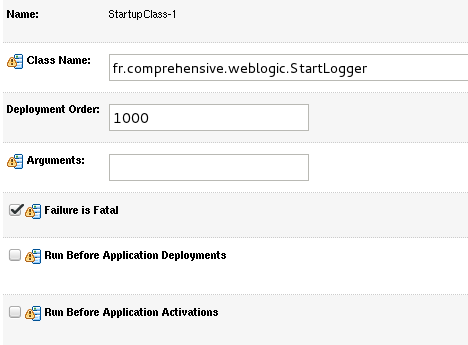
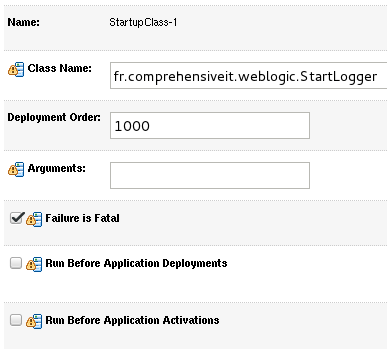
Add sections to startup-shutdown chapter

diff --git a/apps/StartLoggerProject/src/fr/comprehensiveit/weblogic/DatabaseLogger.java b/apps/StartLoggerProject/src/fr/comprehensiveit/weblogic/DatabaseLogger.java
@@ -2,6 +2,7 @@ package fr.comprehensiveit.weblogic;
 
 import java.sql.PreparedStatement;
 import java.sql.ResultSet;
+import java.sql.SQLException;
 import java.util.Hashtable;
 
 import javax.naming.Context;
@@ -14,24 +15,31 @@ public class DatabaseLogger {
 		OracleConnection conn=null;
 	    javax.sql.DataSource ds=null;
 	    Hashtable env = new Hashtable();
+	    //Define weblogic context factory and URL
 	    env.put( Context.INITIAL_CONTEXT_FACTORY, "weblogic.jndi.WLInitialContextFactory" );
 	    env.put(Context.PROVIDER_URL, "t3://192.168.0.250:23001");
 	    PreparedStatement psmt;
 	    try {
 	    	Context context=new InitialContext( env );
-		      //you will need to have create a Data Source with JNDI name testDS
-		      ds=(javax.sql.DataSource) context.lookup ("testDS");
-		      conn=(OracleConnection) ds.getConnection();
-		      String sql = "insert into t_start2 (d_start) values(Current_TimeStamp)";
-		      psmt = conn.prepareStatement(sql);
-		      ResultSet rs = psmt.executeQuery();
-		      conn.commit();
-		      //psmt.close();
-		      conn.close();
+	    	//Try to get datasource testDS from WebLogic
+	    	ds=(javax.sql.DataSource) context.lookup ("testDS");
+	    	//Get a connection from pool
+	    	conn=(OracleConnection) ds.getConnection();
+	    	String sql = "insert into t_start2 (d_start) values(Current_TimeStamp)";
+	    	psmt = conn.prepareStatement(sql);
+	    	//Execute query
+	    	psmt.executeQuery();
+	    	conn.commit();
+	    	conn.close();
 	    }catch(Exception ex){
-		      //handle the exception
-		      ex.printStackTrace();
-		     return 1; 
+	    	try {
+	    		conn.rollback();
+	    	}catch(Exception ex2) {
+	    		System.out.println("Can not rollback prepared statement. This might occur if connection failed before initialization.");
+	    	}
+	    	//handle the exception
+	    	ex.printStackTrace();
+	    	return 1; 
 		}
 		return 0;
 	}

diff --git a/apps/StartLoggerProject/src/fr/comprehensiveit/weblogic/StartLogger.java b/apps/StartLoggerProject/src/fr/comprehensiveit/weblogic/StartLogger.java
@@ -1,14 +1,10 @@
 package fr.comprehensiveit.weblogic;
 
-import app.StartSleep;
-
 public class StartLogger {
 	public static void main(String args[]) throws InterruptedException {
 		System.out.println("StartLogger");
 		DatabaseLogger dsc = new DatabaseLogger();
 		int myResult = dsc.writeStartTime();
-		StartSleep ss = new StartSleep();
-		int myResult2 = dsc.writeStartTime();
 		System.out.println("StartLogger result:"+myResult+"\n");
 	}
 }

diff --git a/docs/source/startup-shutdown.rst b/docs/source/startup-shutdown.rst
@@ -1,13 +1,7 @@
 Startup WebLogic
 ----------------
 
-Admin server
-~~~~~~~~~~~~~~~
-
-Managed server
-~~~~~~~~~~~~~~~
-
-Depending on your configuration, managed servers can take time to startup. 
+Depending on your configuration, servers can take time to startup. 
 WebLogic deploys its application after two phases.
 
 - Phase 1: The application has the "prepare" status. At this step WebLogic controls package integrity and ensure the application can be deployed. We can meet errors at this step if a package has been corrupted while transferring from the Admin server to managed servers.
@@ -29,10 +23,14 @@ On a WebLogic 12c platform we corrupted our WAR application in different ways. Y
 +-----------------------------------+-------------------+-----------------------+
 
 Startup and Shutdown Classes
-""""""""""""""""""""""""""""
-Startup classes and shutdown classes are loaded when the server bootup. Depending on the deployment order the class can be deployed before or after other deployments and services.
+~~~~~~~~~~~~~~~
+
+Startup classes and shutdown classes are loaded when the server bootup. Depending on the deployment order the class can be loaded before or after other deployments and services.
 
 StartLogger example
+""""""""""""""""""""""""""""
+
+Description
 ```````````````````
 
 In this example we developed a class named DatabaseLogger which writes the current date into t_start and a class named StartServlet which calss DatabaseLogger.
@@ -43,18 +41,21 @@ If we do not write this method main the following error will occur during startu
 
   java.lang.NoSuchMethodException: app.StartServlet does not define 'public static void main(String[])'
 
+Configuration
+```````````````````
+
 To configure a class into startup we first need to add the package to classloader.
 A quick and dirty solution is to add lines below to setDomainEnv.sh
 
 .. code-block:: shell
 
-  CLASSPATH="${CLASSPATH}:/opt/wls12210/user_projects/domains/DOMAIN-2/upload/StartLoggerProject.jar
-  export CLASSPATH
+  CLASSPATH="${CLASSPATH}:/opt/wls12210/user_projects/domains/DOMAIN-2/upload/StartLoggerProject.jar"
+  export $CLASSPATH
 
 Then you can add the class to start to Weblogic configuration with the following steps:
 
-- Environment / Startup and Shutdown Classes
-- Click New / select Startup Class
+- Click Environment and Startup and Shutdown Classes
+- Click New and select Startup Class
 - Add Startup name to display in WebLogic console and startup class name to boot
 - Select target and press finish
 
@@ -64,8 +65,95 @@ For our example we set the following configuration
 
 If startup class failed to load server will shutdown. This is not the default value but can be usefull to know at the begining your application is not able to initialize
 
-CacheRetriever example
+Source code
 ```````````````````
+StartLogger class contains a single main method which calls writeStartTime method from DataSourceClient
+
+.. code-block:: java
+  package fr.comprehensiveit.weblogic;
+
+  public class StartLogger {
+  	public static void main(String args[]) throws InterruptedException {
+  		System.out.println("StartLogger");
+  		DatabaseLogger dsc = new DatabaseLogger();
+  		int myResult = dsc.writeStartTime();
+  		System.out.println("StartLogger result:"+myResult+"\n");
+  	}
+  }
+
+DataSourceClient writes current date and time in t_start2 column. We let WebLogic manages database connection by using testDS datasource.
+
+.. code-block:: java
+  package fr.comprehensiveit.weblogic;
+
+  import java.sql.PreparedStatement;
+  import java.sql.ResultSet;
+  import java.sql.SQLException;
+  import java.util.Hashtable;
+
+  import javax.naming.Context;
+  import javax.naming.InitialContext;
+
+  import oracle.jdbc.OracleConnection;
+
+  public class DatabaseLogger {
+	public int writeStartTime() {
+		OracleConnection conn=null;
+	    javax.sql.DataSource ds=null;
+	    Hashtable env = new Hashtable();
+	    //Define weblogic context factory and URL
+	    env.put( Context.INITIAL_CONTEXT_FACTORY, "weblogic.jndi.WLInitialContextFactory" );
+	    env.put(Context.PROVIDER_URL, "t3://192.168.0.250:23001");
+	    PreparedStatement psmt;
+	    try {
+	    	Context context=new InitialContext( env );
+	    	//Try to get datasource testDS from WebLogic
+	    	ds=(javax.sql.DataSource) context.lookup ("testDS");
+	    	//Get a connection from pool
+	    	conn=(OracleConnection) ds.getConnection();
+	    	String sql = "insert into t_start2 (d_start) values(Current_TimeStamp)";
+	    	psmt = conn.prepareStatement(sql);
+	    	//Execute query
+	    	psmt.executeQuery();
+	    	conn.commit();
+	    	conn.close();
+	    }catch(Exception ex){
+	    	try {
+	    		conn.rollback();
+	    	}catch(Exception ex2) {
+  	    		System.out.println("Can not rollback prepared statement. This might occur if connection failed before initialization.");
+  	    	}
+  	    	//handle the exception
+  	    	ex.printStackTrace();
+  	    	return 1; 
+  		}
+		return 0;
+  	}
+  }
+
+Before starting WebLogic we can check that no entry exists into t_start2
+
+.. code-block:: sql
+  SQL> select * from webusr.t_start2;
+  no rows selected
+
+During WebLogic bootup we can notice that WebLogic invoked the main method
+
+.. code-block:: 
+  ####<27 Aug 2016, 3:43:38,430 PM CEST> <Info> <WebLogicServer> <devhyp001> <Server1-b> <[STANDBY] ExecuteThread: '4' for queue: 'weblogic.kernel.Default (self-tuning)'> <<WLS Kernel>> <> <bb25b59e-d272-454b-8ff8-6adca5db86fb-00000006> <1472305418430> <[severity-value: 64] [rid: 0] [partition-id: 0] [partition-name: DOMAIN] > <BEA-000256> <Invoking fr.comprehensiveit.weblogic.StartLogger.main(null)>
+  
+We can also verify if the entry exists
+
+.. code-block:: sql
+  SQL> select * from webusr.t_start2;
+
+          ID D_START
+  ---------- ------------------------------
+          28 27-AUG-16 03.43.38.656536 PM
+
+
+CacheRetriever example
+""""""""""""""""""""""""""""
 
 In this example we are showing how startup class can be used.
 We developed a servlet which requires quite lot of informations from database and store it to cache before displaying result to user.
